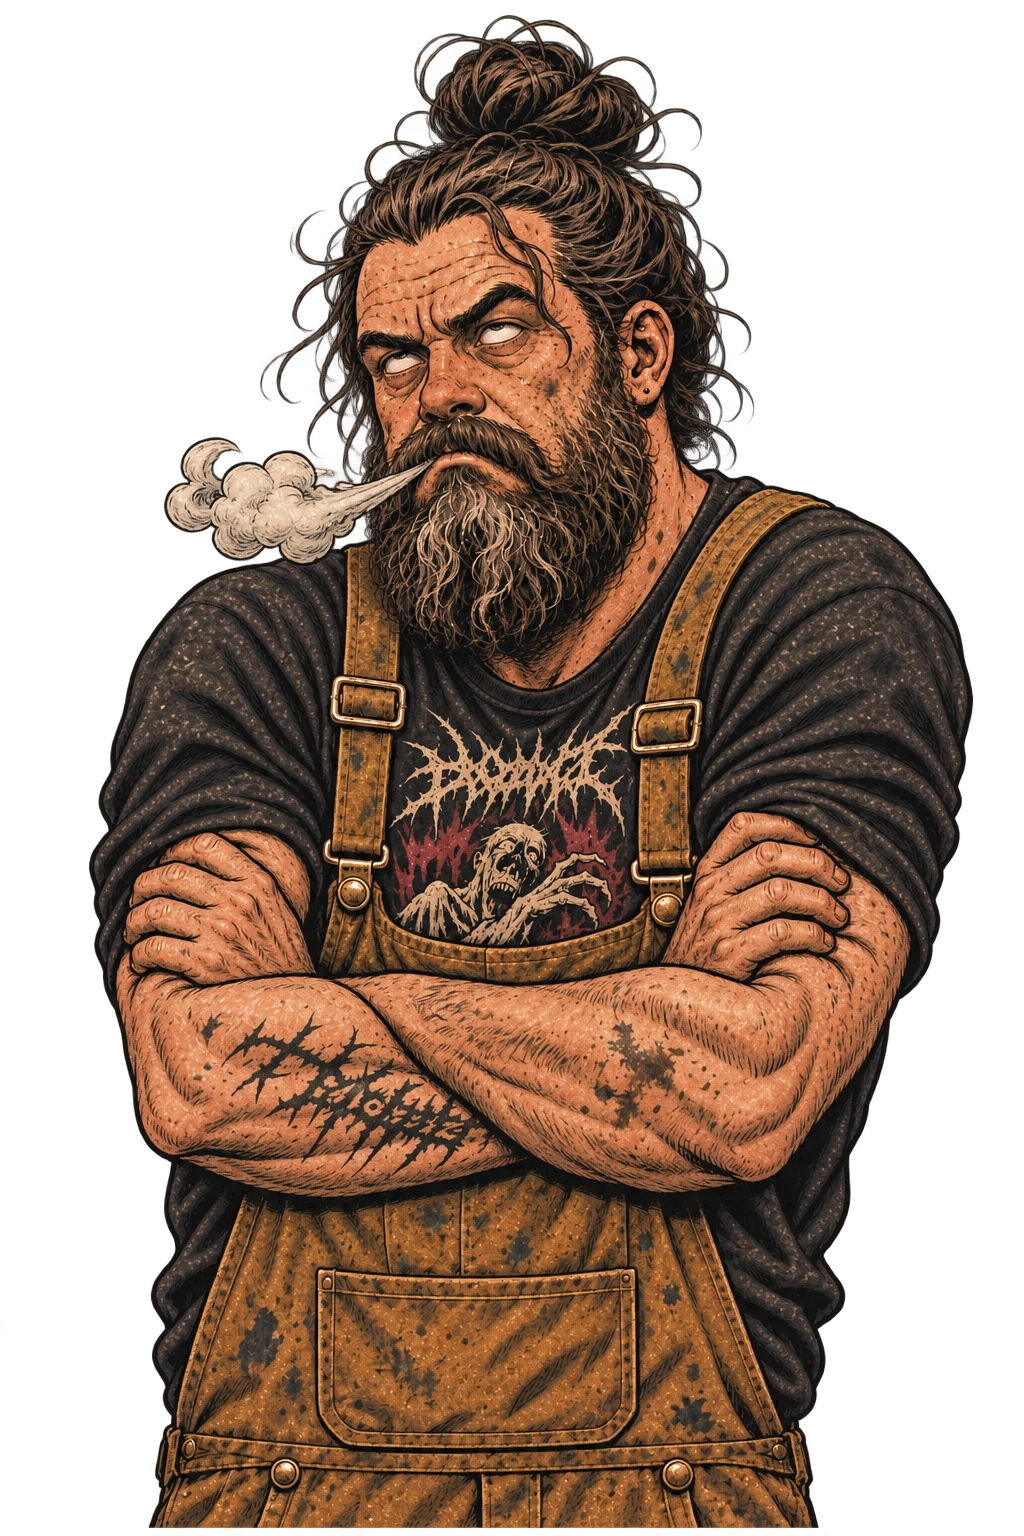
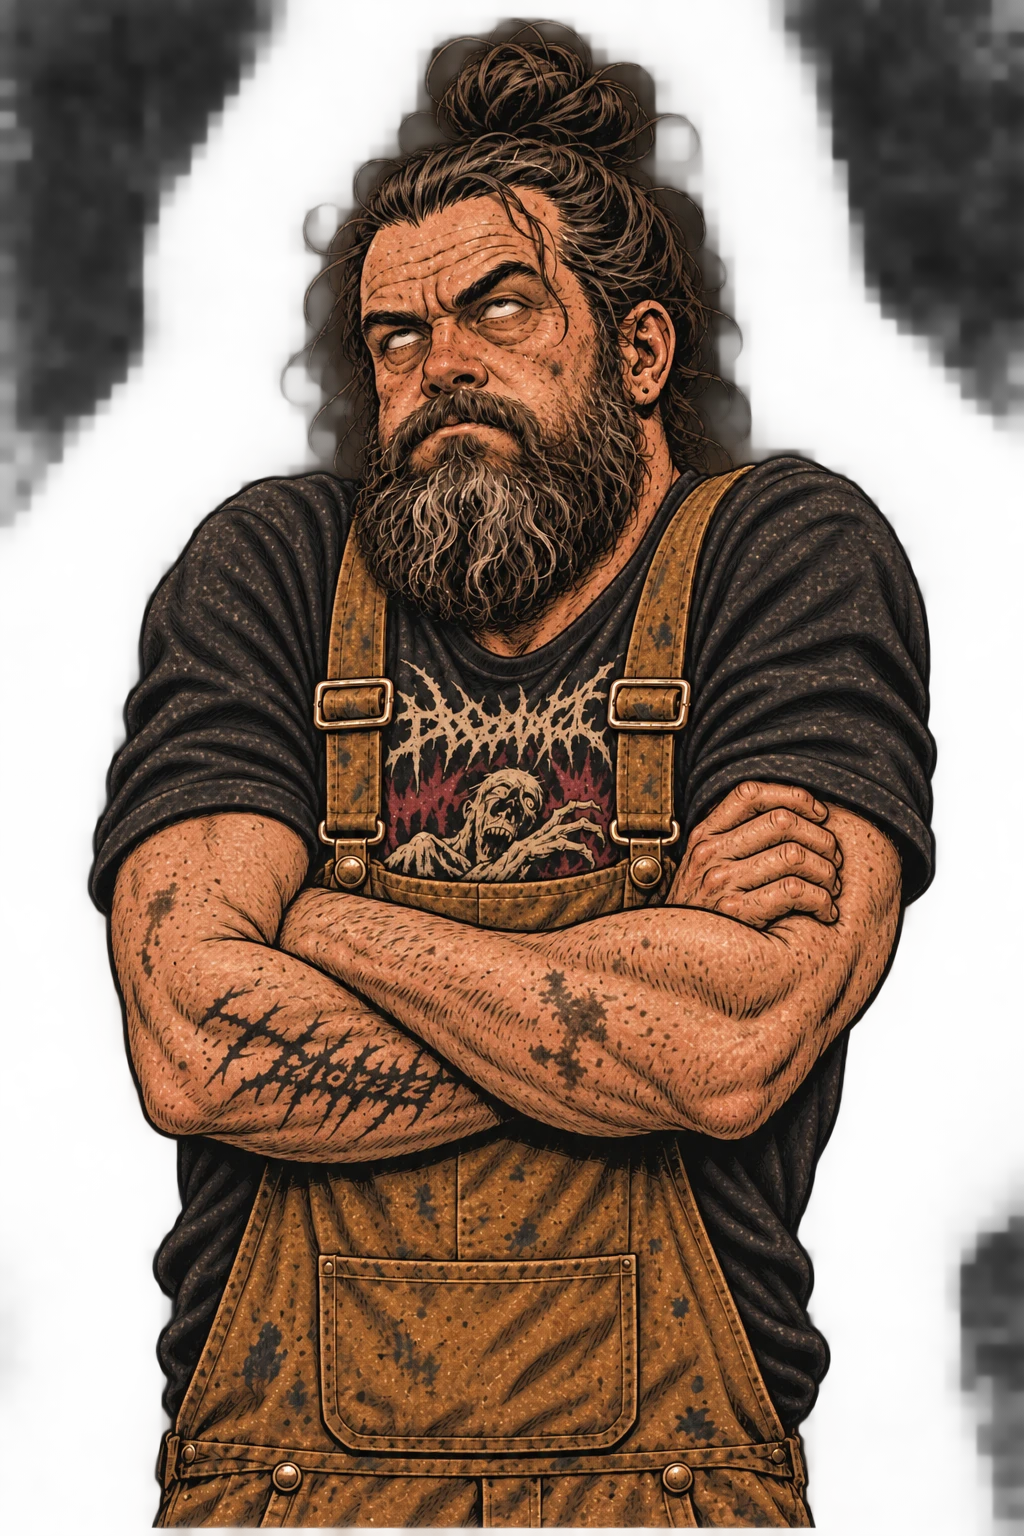
Careers: main-campaign retouches generated, awaiting the owner

diff --git a/docs/design/carriere/asset/tutorial/registro.md b/docs/design/carriere/asset/tutorial/registro.md
@@ -3580,3 +3580,94 @@ Edit the attached approved dialogue portrait. Keep everything exactly the same: 
 
 Avoid: any other change to the character; raised-arm salutes, flags, runes, swastikas, fasces, complete or real Celtic crosses, or any real political symbol; mirroring; any text, letters, numbers, logos, brands, signatures or watermarks; scenery or other characters; likeness of any real person or celebrity; photographic or 3D-rendered style.
 ~~~
+
+## Ritocchi della campagna principale — 21 novembre 2026
+
+Il confronto della cantina usa l’originale allegato; entrambi i tentativi modificano anche pixel fuori dal bottino. Scelto il primo, con minore scarto medio nelle zone superiori e a sinistra.
+
+### beppe-scocciato-3
+
+| Campo | Valore |
+|---|---|
+| Operatore / strumento | Codex; image_gen integrato; modello e versione non esposti |
+| Data e ora originale | 21/11/2026 13:42:04 +0100 |
+| Commit preventivo / prompt | `4e41b65`; [ritocchi](../../prompt-principale.md#ritocchi); testo integrale sotto |
+| Modalità / parametri | modifica guidata dal solo riferimento; un risultato; seed e forza non esposti; trasparenza richiesta |
+| Campo negativo | paragrafo Avoid nel campo principale |
[1 lines of base64/hex data omitted]
+| Altri allegati | nessuno |
[2 lines of base64/hex data omitted]
+| Conversione | Pillow, WebP qualità 90, metodo 4, piena risoluzione; alpha conservato, metadati non conservati |
+| Alpha | angoli alto-sinistra, alto-destra, basso-sinistra, basso-destra e fondo (100,100), (100,400): 153, 107, 2, 85, 214, 115; intervallo (0, 253) |
+| Controllo | nessun elemento esce da bocca o naso; alone semitrasparente visibile intorno al ritratto nella composizione, alpha non nullo agli angoli e nei campioni di fondo |
[1 lines of base64/hex data omitted]
+| Scala della prova | finestra e inquadratura del tutorial |
+| Termini / C2PA | non verificati; originale conservato |
+| Esito | candidato per giudizio del proprietario |
+
+Testo inviato integralmente:
+
+~~~text
+Edit the attached approved dialogue portrait. Keep everything exactly the same: the same man, his face, long beard, hair in a bun, tobacco-brown overalls, black band T-shirt with the illegible logo, the forearm tattoo, colours, hand-inked European comic style, framing, size and position on the canvas, and the transparent background. Change only his facial expression and the pose of his arms and hands: fed up and irritated, rolling his eyes up, cheeks slightly puffed and lips pressed together as if letting out a long weary sigh through the nose, arms crossed more tightly, shoulders slumped. The sigh is shown only by his face: nothing comes out of his mouth or nose.
+
+Avoid: any other change to the character; puffs, clouds, breath, steam, smoke, vapour, motion lines or symbols near his mouth or nose; tools in his pockets or hands; readable writing or real band names or logos; mirroring; any text, letters, numbers, logos, brands, signatures or watermarks; scenery or other characters; likeness of any real person or celebrity; photographic or 3D-rendered style.
+~~~
+
+### s4-cantina-3
+
+| Campo | Valore |
+|---|---|
+| Operatore / strumento | Codex; image_gen integrato; modello e versione non esposti |
+| Data e ora originale | 21/11/2026 13:41:14 +0100 |
+| Commit preventivo / prompt | `4e41b65`; [ritocchi](../../prompt-principale.md#ritocchi); testo integrale sotto |
+| Modalità / parametri | modifica guidata dal solo riferimento; un risultato; seed e forza non esposti; sfondo opaco |
+| Campo negativo | paragrafo Avoid nel campo principale |
[1 lines of base64/hex data omitted]
+| Altri allegati | nessuno |
[2 lines of base64/hex data omitted]
+| Conversione | Pillow, WebP qualità 90, metodo 4, piena risoluzione; alpha conservato, metadati non conservati |
+| Alpha | sfondo opaco; alpha non applicabile |
+| Controllo | bottino più piccolo; differenze anche fuori dal bottino: scarto medio RGB rispetto all’allegato nella fascia superiore 10,34 / 7,63 / 5,47; a sinistra 9,37 / 6,59 / 4,70 su scala 0–255 |
[1 lines of base64/hex data omitted]
+| Scala della prova | Grappino: tela 131×131 px, piedi a y=568; centrato sul bottino. Ritaglio dello sfondo centrato verticalmente a 0,70; Mara stessa inquadratura. |
+| Termini / C2PA | non verificati; originale conservato |
+| Esito | candidato per giudizio del proprietario |
+
+Testo inviato integralmente:
+
+~~~text
+Edit the attached background illustration. Keep everything exactly the same: the vaulted brick cellar, the bare light bulb, the shelves with bottles, the crates, the beer kegs, the wooden staircase, the cobwebs, the light, the colours, the hand-inked European comic style and the composition. Change only the small dog's hoard on the floor: redraw it much smaller, at the real scale of the room, as the stash of a small dog no taller than half a beer keg: a tiny bottle cap, one worn black furry slipper of normal adult size, a few thin cigarette butts and some greasy scraps of paper, on a small old rag no wider than one beer keg. Place it on the floor in the central third of the width, a little left of the centre, just above the lowest quarter of the image. Fill the space it leaves with the same plain dusty floor.
+
+Avoid: any other change to the image; oversized objects; animals, people, faces, hands, silhouettes; any text, letters, numbers, labels on crates or kegs, logos, brands, signatures or watermarks; photographic or 3D-rendered style.
+~~~
+
+### s4-cantina-4
+
+| Campo | Valore |
+|---|---|
+| Operatore / strumento | Codex; image_gen integrato; modello e versione non esposti |
+| Data e ora originale | 21/11/2026 13:43:02 +0100 |
+| Commit preventivo / prompt | `4e41b65`; [ritocchi](../../prompt-principale.md#ritocchi); testo integrale sotto |
+| Modalità / parametri | modifica guidata dal solo riferimento; un risultato; seed e forza non esposti; sfondo opaco |
+| Campo negativo | paragrafo Avoid nel campo principale |
[1 lines of base64/hex data omitted]
+| Altri allegati | nessuno |
[1 lines of base64/hex data omitted]
+| Consegna | non selezionato |
+| Conversione | nessuna |
+| Alpha | sfondo opaco; alpha non applicabile |
+| Controllo | bottino più piccolo; differenze anche fuori dal bottino: scarto medio RGB rispetto all’allegato nella fascia superiore 10,24 / 7,85 / 5,57; a sinistra 9,55 / 7,09 / 5,01 su scala 0–255 |
+| Composizioni | nessuna |
+| Scala della prova | nessuna |
+| Termini / C2PA | non verificati; originale conservato |
+| Esito | secondo tentativo non selezionato |
+
+Testo inviato integralmente:
+
+~~~text
+Edit the attached background illustration. Keep everything exactly the same: the vaulted brick cellar, the bare light bulb, the shelves with bottles, the crates, the beer kegs, the wooden staircase, the cobwebs, the light, the colours, the hand-inked European comic style and the composition. Change only the small dog's hoard on the floor: redraw it much smaller, at the real scale of the room, as the stash of a small dog no taller than half a beer keg: a tiny bottle cap, one worn black furry slipper of normal adult size, a few thin cigarette butts and some greasy scraps of paper, on a small old rag no wider than one beer keg. Place it on the floor in the central third of the width, a little left of the centre, just above the lowest quarter of the image. Fill the space it leaves with the same plain dusty floor.
+
+Avoid: any other change to the image; oversized objects; animals, people, faces, hands, silhouettes; any text, letters, numbers, labels on crates or kegs, logos, brands, signatures or watermarks; photographic or 3D-rendered style.
+~~~

diff --git a/docs/design/carriere/prompt-principale.md b/docs/design/carriere/prompt-principale.md
@@ -266,7 +266,7 @@ Avoid: any other change to the character, her framing or her position on the can
 | celestina-triste | [WebP](asset/tutorial/ritratti/celestina-triste.webp) | [Scheda](asset/tutorial/registro.md#celestina-triste-1) |**Approvato** (21 novembre 2026): «si, rifacciamo beppe», sulle note della regia |
 | beppe-contento | [WebP](asset/tutorial/ritratti/beppe-contento.webp) | [Scheda](asset/tutorial/registro.md#beppe-contento-1) |**Approvato** (21 novembre 2026): «si, rifacciamo beppe», sulle note della regia |
 | beppe-pensieroso | [WebP](asset/tutorial/ritratti/beppe-pensieroso.webp) | [Scheda](asset/tutorial/registro.md#beppe-pensieroso-1) |**Approvato** (21 novembre 2026): «si, rifacciamo beppe», sulle note della regia |
-| beppe-scocciato | [WebP](asset/tutorial/ritratti/beppe-scocciato.webp) | [Scheda](asset/tutorial/registro.md#beppe-scocciato-2) |Da rifare (21 novembre 2026): la nuvoletta del sospiro. [Ritocco](#ritocchi) |
+| beppe-scocciato | [WebP](asset/tutorial/ritratti/beppe-scocciato.webp) | [Scheda](asset/tutorial/registro.md#beppe-scocciato-3) | |
 | beppe-serio | [WebP](asset/tutorial/ritratti/beppe-serio.webp) | [Scheda](asset/tutorial/registro.md#beppe-serio-1) |**Approvato** (21 novembre 2026): «si, rifacciamo beppe», sulle note della regia |
 | duccio-dolorante | [WebP](asset/tutorial/ritratti/duccio-dolorante.webp) | [Scheda](asset/tutorial/registro.md#duccio-dolorante-1) |**Approvato** (21 novembre 2026): «si, rifacciamo beppe», sulle note della regia |
 | duccio-offeso | [WebP](asset/tutorial/ritratti/duccio-offeso.webp) | [Scheda](asset/tutorial/registro.md#duccio-offeso-1) |**Approvato** (21 novembre 2026): «si, rifacciamo beppe», sulle note della regia |
@@ -354,7 +354,7 @@ Avoid: faces, eyes, features, inner lines, colours, gradients or highlights insi
 | s1-esterno-di-giorno | [WebP](asset/tutorial/sfondi/s1-esterno-di-giorno.webp) | [Scheda](asset/tutorial/registro.md#s1-esterno-di-giorno-1) |**Approvato** (21 novembre 2026): «si, rifacciamo beppe», sulle note della regia |
 | s2-interno-al-buio | [WebP](asset/tutorial/sfondi/s2-interno-al-buio.webp) | [Scheda](asset/tutorial/registro.md#s2-interno-al-buio-1) |**Approvato** (21 novembre 2026): «si, rifacciamo beppe», sulle note della regia |
 | s3-esterno | [WebP](asset/tutorial/sfondi/s3-esterno.webp) | [Scheda](asset/tutorial/registro.md#s3-esterno-2) |**Approvato** (21 novembre 2026): «si, rifacciamo beppe», sulle note della regia (paletti dorati invece che cromati) |
-| s4-cantina | [WebP](asset/tutorial/sfondi/s4-cantina.webp) | [Scheda](asset/tutorial/registro.md#s4-cantina-2) |Da rifare (21 novembre 2026): il proprietario, «grappino in cantina è alto quasi quanto il soffitto». [Ritocco](#ritocchi) |
+| s4-cantina | [WebP](asset/tutorial/sfondi/s4-cantina.webp) | [Scheda](asset/tutorial/registro.md#s4-cantina-3) | |
 | padrone-in-ombra | [WebP](asset/tutorial/sprite/padrone-in-ombra.webp) | [Scheda](asset/tutorial/registro.md#padrone-in-ombra-2) |**Approvato** (21 novembre 2026): «si, rifacciamo beppe», sulle note della regia |
 
 ## Ritocchi
